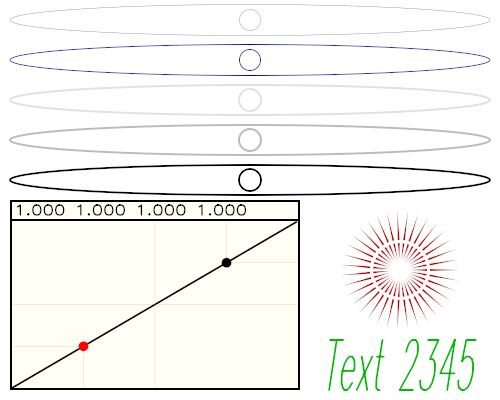
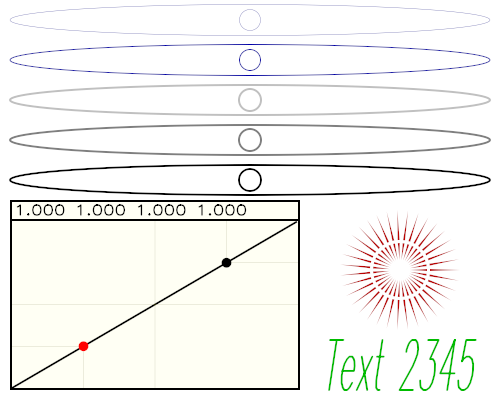
feat: Implement sRGBA8 color conversion and add corresponding unit test

diff --git a/examples/core/advanced/gamma_ctrl/main.go b/examples/core/advanced/gamma_ctrl/main.go
@@ -70,6 +70,16 @@ func toAggColor(c icol.RGBA) agg.Color {
 	return agg.NewColor(clamp(c.R), clamp(c.G), clamp(c.B), clamp(c.A))
 }
 
+func srgba8Color(r, g, b, a uint8) agg.Color {
+	c := icol.ConvertRGBA8SRGBToLinear(icol.RGBA8[icol.SRGB]{
+		R: r,
+		G: g,
+		B: b,
+		A: a,
+	})
+	return agg.NewColor(c.R, c.G, c.B, c.A)
+}
+
 func renderCtrl(a *agg.Agg2D, c ctrlbase.Ctrl[icol.RGBA]) {
 	ras := a.GetInternalRasterizer()
 	for i := uint(0); i < c.NumPaths(); i++ {
@@ -163,8 +173,8 @@ func (d *demo) Render(img *agg.Image) {
 		color  agg.Color
 	}{
 		{220, eWidth, 15.0, 2.0, 11.0, agg.NewColor(0, 0, 0, 255)},
-		{260, eWidth, 15.0, 2.0, 11.0, agg.NewColor(127, 127, 127, 255)},
-		{300, eWidth, 15.0, 2.0, 11.0, agg.NewColor(192, 192, 192, 255)},
+		{260, eWidth, 15.0, 2.0, 11.0, srgba8Color(127, 127, 127, 255)},
+		{300, eWidth, 15.0, 2.0, 11.0, srgba8Color(192, 192, 192, 255)},
 		{340, eWidth, 15.5, 1.0, 10.5, agg.NewColor(0, 0, 102, 255)},
 		{380, eWidth, 15.5, 0.4, 10.5, agg.NewColor(0, 0, 102, 255)},
 		{420, eWidth, 15.5, 0.1, 10.5, agg.NewColor(0, 0, 102, 255)},

diff --git a/examples/core/advanced/gamma_ctrl/main_test.go b/examples/core/advanced/gamma_ctrl/main_test.go
@@ -1,0 +1,24 @@
+package main
+
+import (
+	"testing"
+
+	agg "github.com/cwbudde/agg_go"
+	icol "github.com/cwbudde/agg_go/internal/color"
+)
+
+func TestSRGBA8ColorStoresLinearValueForEncodedOutput(t *testing.T) {
+	got := srgba8Color(127, 127, 127, 255)
+	want := icol.ConvertRGBA8SRGBToLinear(icol.RGBA8[icol.SRGB]{
+		R: 127,
+		G: 127,
+		B: 127,
+		A: 255,
+	})
+
+	if got != agg.NewColor(want.R, want.G, want.B, want.A) {
+		t.Fatalf("srgba8Color(127,127,127,255) = rgba(%d,%d,%d,%d), want linear rgba(%d,%d,%d,%d)",
+			got.R, got.G, got.B, got.A,
+			want.R, want.G, want.B, want.A)
+	}
+}

diff --git a/PLAN.md b/PLAN.md
@@ -253,10 +253,21 @@ C++ references live under `../agg-2.6/agg-src/`.
       + sRGB variants and constructors. 7 TDD tests green; gofmt/lint clean; whole
       pixfmt package passes. Composite (`Comp`/`CompPre`) variants deferred to L5.
       C++ ref: `pixfmt_rgba` family parameterised on `rgba128`.
-- [ ] **L3 — Float image + buffer wiring** `internal/agg2d/buffer_float.go` and a
+- [x] **L3 — Float image + buffer wiring** `internal/agg2d/buffer_float.go` and a
       float `Image`. Define the boundary contract (see 4.3) and conversions
       to/from `color.RGBA32`, standard Go `image.RGBA`/`image.NRGBA64`, and the
       8-bit AGG image.
+      DONE 2026-05-31 (TDD, 8 tests): added `ImageFloat` over `RenderingBufferF32`
+      storing **straight** RGBA float32 (4/pixel, [0,1]), the float twin of
+      `Image`. Constructors `NewImageFloat`/`NewImageFloatEmpty`; `Width/Height/
+      Stride/IsAttached/Attach`; straight `GetPixel`/`SetPixel` over `color.RGBA32`;
+      in-place `Premultiply`/`Demultiply`. Boundary conversions honoring each
+      format's alpha convention: `ToNRGBA64`/`NewImageFloatFromNRGBA64` (straight
+      ↔ straight 16-bit), `ToRGBA`/`NewImageFloatFromRGBA` (straight ↔ Go's
+      premultiplied 8-bit, premul/demul at the boundary), `ToImage8`/
+      `NewImageFloatFromImage8` (straight ↔ 8-bit AGG image, ×255). Contract
+      documented in the file header. Verified: 8/8 tests, full agg2d package green,
+      gofmt/vet/golangci-lint clean on new files, `go build ./...` OK.
 - [ ] **L4 — `Agg2DFloat` internal twin** `internal/agg2d/agg2d_float.go`. Mirror
       the internal `Agg2D` struct field-for-field, swapping the pixfmt/renderer/
       color/gradient-LUT/span types to the float ones. Keep a one-to-one method
